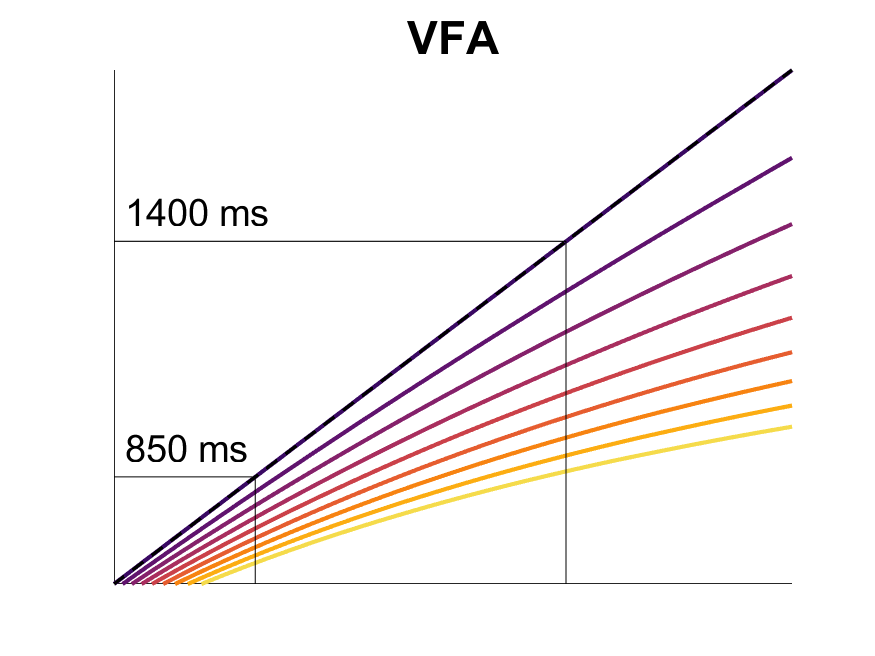
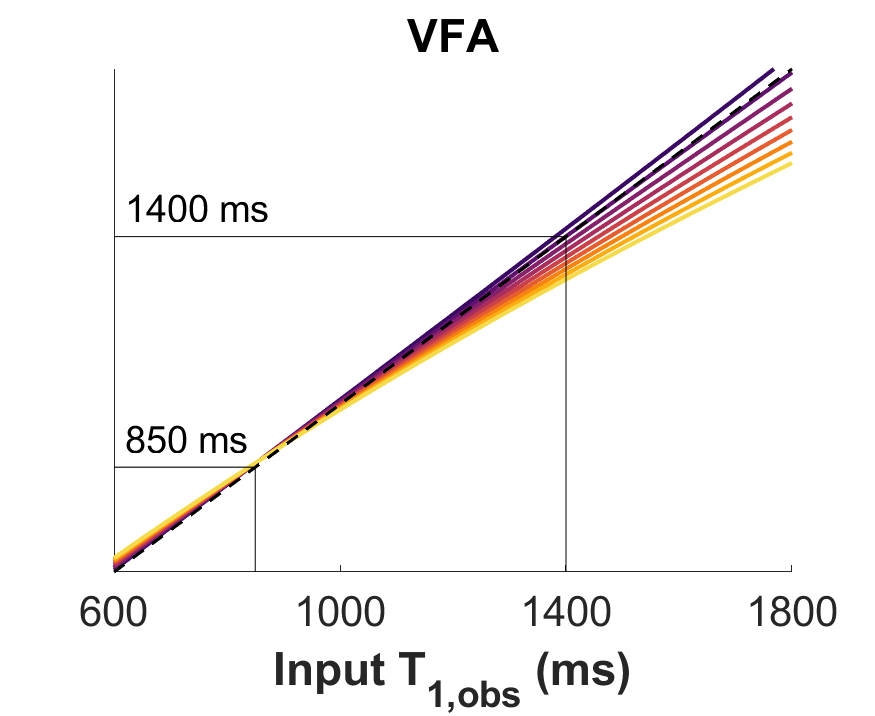
fix plot

diff --git a/MTeffect_in_T1mapping/main_MT_T1_inv.m b/MTeffect_in_T1mapping/main_MT_T1_inv.m
@@ -338,7 +338,7 @@ plot([point(1), point(1)], [axLims(3), point(2)], 'k-')  %vertical line
 plot([axLims(1), point(1)], [point(2), point(2)], 'k-')  %horizontal line
 text(lLim + 20, point(1) + 70, strcat(num2str(point(1)), " ms"),'FontSize', FontSize-2)
 hold off
-yticks([]); xticks([]); xlabel([])
+yticks([]); %xticks([]); xlabel([])
 
 saveas(gcf,fullfile(outputPathFig,[savePrefix,'_T1plot_vfa.png']));
 
